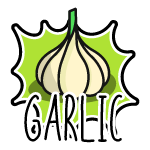
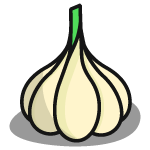
Version 2.7.1

diff --git a/Source Code/MeetingPatch.cs b/Source Code/MeetingPatch.cs
@@ -46,7 +46,9 @@ namespace TheOtherRoles
                     if (playerVoteArea.TargetPlayerId == Swapper.playerId2) swapped2 = playerVoteArea;
                 }
 
-                if (swapped1 != null && swapped2 != null && dictionary.ContainsKey(swapped1.TargetPlayerId) && dictionary.ContainsKey(swapped2.TargetPlayerId)) {
+                if (swapped1 != null && swapped2 != null) {
+                    if (!dictionary.ContainsKey(swapped1.TargetPlayerId)) dictionary[swapped1.TargetPlayerId] = 0;
+                    if (!dictionary.ContainsKey(swapped2.TargetPlayerId)) dictionary[swapped2.TargetPlayerId] = 0;
                     int tmp = dictionary[swapped1.TargetPlayerId];
                     dictionary[swapped1.TargetPlayerId] = dictionary[swapped2.TargetPlayerId];
                     dictionary[swapped2.TargetPlayerId] = tmp;
@@ -230,8 +232,10 @@ namespace TheOtherRoles
             var smallButtonTemplate = __instance.playerStates[0].Buttons.transform.Find("CancelButton");
             var textTemplate = __instance.playerStates[0].NameText;
 
-            Transform exitButton = UnityEngine.Object.Instantiate(smallButtonTemplate.transform, container);
-            exitButton.transform.localPosition = new Vector3(-2.725f, 2.1f, -10f);
+            Transform exitButton = UnityEngine.Object.Instantiate(buttonTemplate.transform, container);
+            exitButton.transform.localPosition = new Vector3(2.725f, 2.1f, -5);
+            exitButton.transform.localScale = new Vector3(0.25f, 0.9f, 1);
+            exitButton.gameObject.GetComponent<SpriteRenderer>().sprite = smallButtonTemplate.GetComponent<SpriteRenderer>().sprite;
             exitButton.GetComponent<PassiveButton>().OnClick.RemoveAllListeners();
             exitButton.GetComponent<PassiveButton>().OnClick.AddListener((UnityEngine.Events.UnityAction)(() => {
                 UnityEngine.Object.Destroy(container.gameObject);

diff --git a/Source Code/UpdatePatch.cs b/Source Code/UpdatePatch.cs
@@ -199,7 +199,7 @@ namespace TheOtherRoles
                     Morphling.morphling.myRend.material.SetColor("_BackColor", Palette.ShadowColors[Morphling.morphTarget.Data.ColorId]);
                     Morphling.morphling.myRend.material.SetColor("_BodyColor", Palette.PlayerColors[Morphling.morphTarget.Data.ColorId]);
                     Morphling.morphling.HatRenderer.SetHat(Morphling.morphTarget.Data.HatId, Morphling.morphTarget.Data.ColorId);
-                    Morphling.morphling.nameText.transform.localPosition = new Vector3(0f, (Morphling.morphTarget.Data.HatId == 0U) ? 0.7f : 1.05f, -0.5f);
+                    Morphling.morphling.nameText.transform.localPosition = new Vector3(0f, ((Morphling.morphTarget.Data.HatId == 0U) ? 0.7f : 1.05f) * 2f, -0.5f);
 
                     if (Morphling.morphling.MyPhysics.Skin.skin.ProdId != DestroyableSingleton<HatManager>.Instance.AllSkins[(int)Morphling.morphTarget.Data.SkinId].ProdId) {
                         Helpers.setSkinWithAnim(Morphling.morphling.MyPhysics, Morphling.morphTarget.Data.SkinId);

diff --git a/Source Code/NameFix.cs b/Source Code/NameFix.cs
@@ -1,0 +1,17 @@
+using HarmonyLib;
+
+namespace TheOtherRoles {
+    [Harmony]
+    public class AccountManagerPatch {
+        [HarmonyPatch(typeof(AccountManager), nameof(AccountManager.RandomizeName))]
+        public static class RandomizeNamePatch {
+            static bool Prefix(AccountManager __instance) {  
+                if (SaveManager.lastPlayerName == null)
+                    return true;
+                SaveManager.PlayerName = SaveManager.lastPlayerName;
+		        __instance.accountTab.UpdateNameDisplay();
+                return false; // Don't execute original
+            }
+        }
+    }
+}

diff --git a/Source Code/Main.cs b/Source Code/Main.cs
@@ -20,7 +20,7 @@ namespace TheOtherRoles
     public class TheOtherRolesPlugin : BasePlugin
     {
         public const string Id = "me.eisbison.theotherroles";
-        public const string VersionString = "2.7.0";
+        public const string VersionString = "2.7.1";
         public static System.Version Version = System.Version.Parse(VersionString);
 
         public Harmony Harmony { get; } = new Harmony(Id);

diff --git a/README.md b/README.md
@@ -36,6 +36,7 @@ The [Role Assignment](#role-assignment) sections explains how the roles are bein
 # Releases
 | Among Us - Version| Mod Version | Link |
 |----------|-------------|-----------------|
+| **2021.6.15**| v2.7.1| [Download](https://github.com/Eisbison/TheOtherRoles/releases/download/v2.7.0/TheOtherRoles.zip)
 | **2021.6.15**| v2.7.0| [Download](https://github.com/Eisbison/TheOtherRoles/releases/download/v2.7.0/TheOtherRoles.zip)
 | 2021.5.25.2s| v2.6.7| [Download](https://github.com/Eisbison/TheOtherRoles/releases/download/v2.6.7/TheOtherRoles.zip)
 | 2021.5.10s| v2.6.6| [Download](https://github.com/Eisbison/TheOtherRoles/releases/download/v2.6.6/TheOtherRoles.zip)
@@ -69,6 +70,12 @@ The [Role Assignment](#role-assignment) sections explains how the roles are bein
 # Changelog
 <details>
   <summary>Click to show the Changelog</summary>
+
+**Version 2.7.1**
+- Fixed a bug where swapped votes were sometimes counted wrongly
+- Fixed the positioning of the player name while morphed
+- Fixed a bug where the window of the Guesser sometimes showed no "close button"
+- Fixed a bug where the garlics were not displayed properly
 
 **Version 2.7.0**
 - **New Role:** [Bounty Hunter](#bounty-hunter) created by [Mallöris](https://github.com/Mallaris) 
